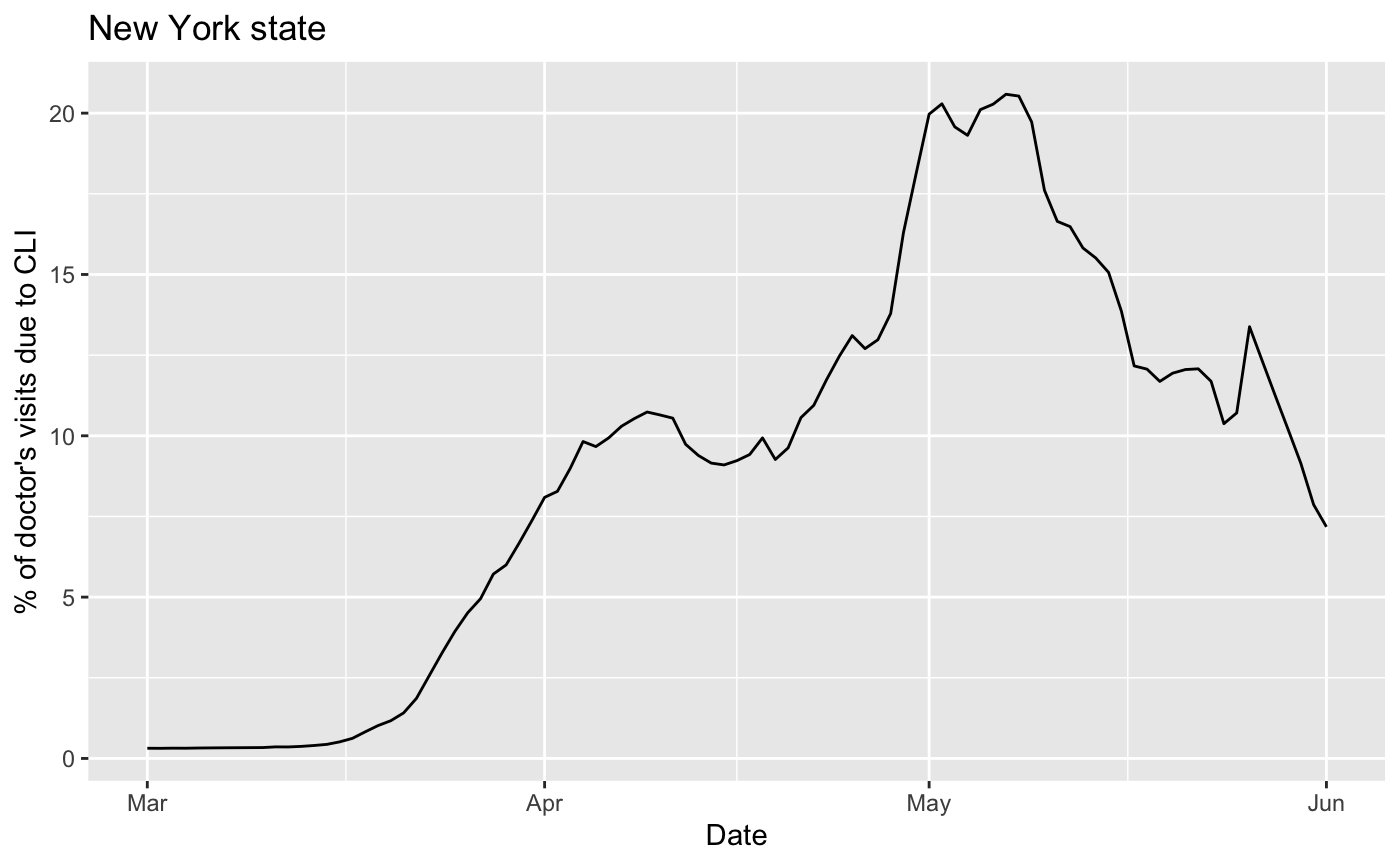
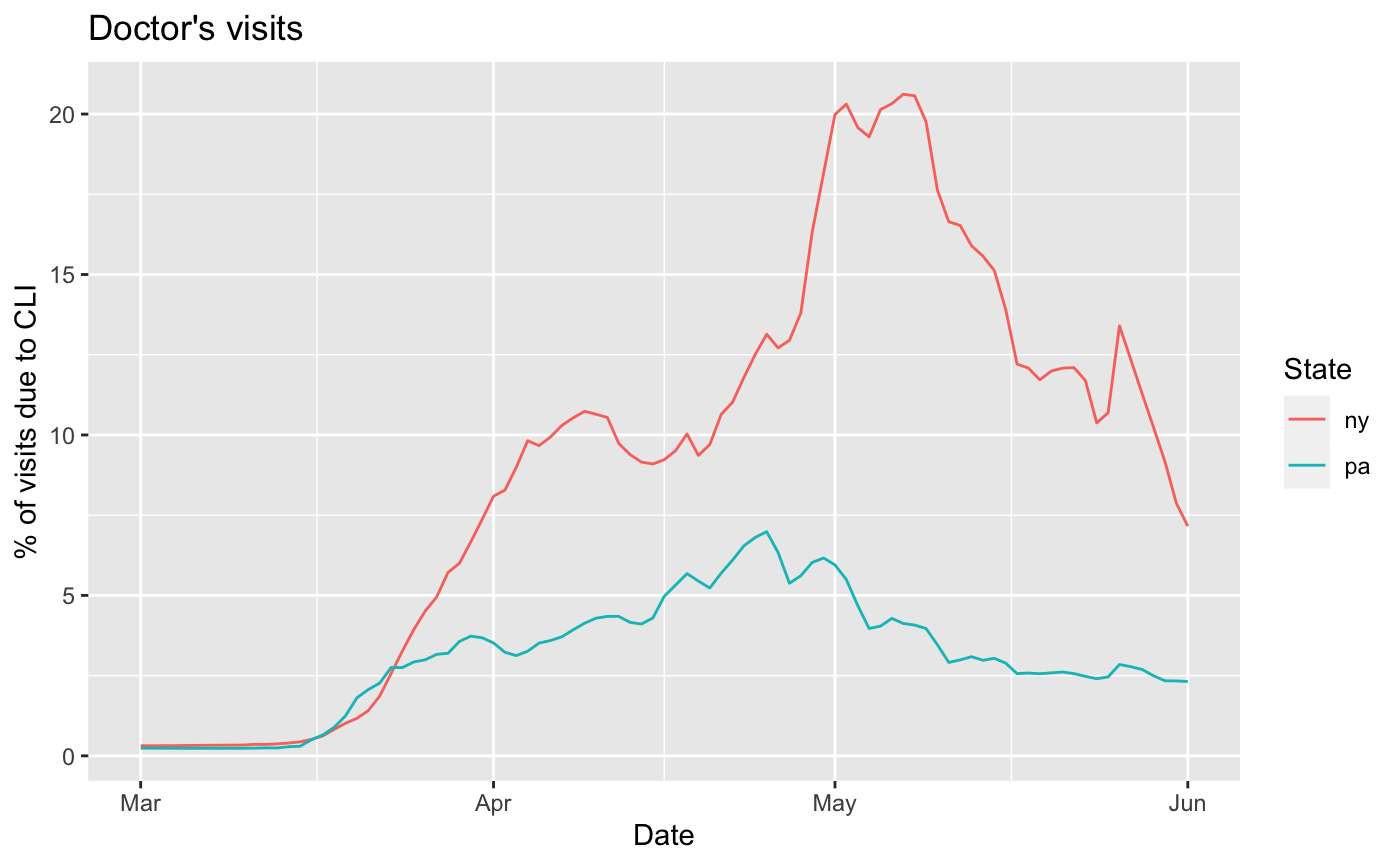
Deploying to gh-pages from  @ 7b18dddfdbf81b5c7cbd9f29260b195c5bdd8b29 🚀

diff --git a/covidcastR/articles/covidcastR.html b/covidcastR/articles/covidcastR.html
@@ -73,7 +73,7 @@
       <h1 data-toc-skip>Getting started with covidcastR</h1>
             
       
-      <small class="dont-index">Source: <a href="https://github.com/cmu-delphi/covidcast/blob/master/vignettes/covidcastR.Rmd"><code>vignettes/covidcastR.Rmd</code></a></small>
+      <small class="dont-index">Source: <a href="https://github.com/cmu-delphi/covidcast/blob/master/../../vignettes/covidcastR.Rmd"><code>../../vignettes/covidcastR.Rmd</code></a></small>
       <div class="hidden name"><code>covidcastR.Rmd</code></div>
 
     </div>
@@ -167,17 +167,17 @@
 <h2 class="hasAnchor">
 <a href="#graphing-the-data" class="anchor"></a>Graphing the data</h2>
 <p>Using <a href="https://ggplot2.tidyverse.org/"><code>ggplot2</code></a> or your favorite plotting package, we can also easily plot time series from specific regions.</p>
-<p>For example, this plot shows the same value – the fraction of doctor’s visits due to COVID-like symptoms – for the state of New York from March 1 through June 1, 2020.</p>
+<p>For example, this plot shows the same value – the fraction of doctor’s visits due to COVID-like symptoms – for the states of New York and Pennsylvania from March 1 through June 1, 2020.</p>
 <div class="sourceCode" id="cb12"><html><body><pre class="r"><span class="no">ny</span> <span class="kw">&lt;-</span> <span class="fu"><a href="https://rdrr.io/r/base/message.html">suppressMessages</a></span>(
     <span class="fu"><a href="../reference/covidcast_signal.html">covidcast_signal</a></span>(<span class="st">"doctor-visits"</span>, <span class="st">"smoothed_adj_cli"</span>,
                      <span class="kw">start_day</span> <span class="kw">=</span> <span class="st">"20200301"</span>, <span class="kw">end_day</span> <span class="kw">=</span> <span class="st">"20200601"</span>,
-                     <span class="kw">geo_type</span> <span class="kw">=</span> <span class="st">"state"</span>, <span class="kw">geo_value</span> <span class="kw">=</span> <span class="st">"ny"</span>)
+                     <span class="kw">geo_type</span> <span class="kw">=</span> <span class="st">"state"</span>, <span class="kw">geo_values</span> <span class="kw">=</span> <span class="fu"><a href="https://rdrr.io/r/base/c.html">c</a></span>(<span class="st">"pa"</span>, <span class="st">"ny"</span>))
 )
 
-<span class="fu"><a href="https://ggplot2.tidyverse.org/reference/ggplot.html">ggplot</a></span>(<span class="no">ny</span>, <span class="fu"><a href="https://ggplot2.tidyverse.org/reference/aes.html">aes</a></span>(<span class="kw">x</span> <span class="kw">=</span> <span class="no">time_value</span>, <span class="kw">y</span> <span class="kw">=</span> <span class="no">value</span>)) +
+<span class="fu"><a href="https://ggplot2.tidyverse.org/reference/ggplot.html">ggplot</a></span>(<span class="no">ny</span>, <span class="fu"><a href="https://ggplot2.tidyverse.org/reference/aes.html">aes</a></span>(<span class="kw">x</span> <span class="kw">=</span> <span class="no">time_value</span>, <span class="kw">y</span> <span class="kw">=</span> <span class="no">value</span>, <span class="kw">color</span> <span class="kw">=</span> <span class="no">geo_value</span>)) +
     <span class="fu"><a href="https://ggplot2.tidyverse.org/reference/geom_path.html">geom_line</a></span>() +
-    <span class="fu"><a href="https://ggplot2.tidyverse.org/reference/labs.html">labs</a></span>(<span class="kw">x</span> <span class="kw">=</span> <span class="st">"Date"</span>, <span class="kw">y</span> <span class="kw">=</span> <span class="st">"% of doctor's visits due to CLI"</span>,
-         <span class="kw">title</span> <span class="kw">=</span> <span class="st">"New York state"</span>)</pre></body></html></div>
+    <span class="fu"><a href="https://ggplot2.tidyverse.org/reference/labs.html">labs</a></span>(<span class="kw">x</span> <span class="kw">=</span> <span class="st">"Date"</span>, <span class="kw">y</span> <span class="kw">=</span> <span class="st">"% of visits due to CLI"</span>,
+         <span class="kw">title</span> <span class="kw">=</span> <span class="st">"Doctor's visits"</span>, <span class="kw">color</span> <span class="kw">=</span> <span class="st">"State"</span>)</pre></body></html></div>
 <p><img src="covidcastR_files/figure-html/ny_time_series-1.png" width="700"></p>
 <p>This graph makes the peaks of the pandemic apparent; by loading other data sources from the API, such as cases and deaths, we could begin to conduct analyses comparing the time series against each other.</p>
 </div>

diff --git a/covidcastR/reference/covidcast_signal.html b/covidcastR/reference/covidcast_signal.html
@@ -138,7 +138,7 @@ argument. View <code><a href='../articles/covidcastR.html'>vignette("covidcastR"
   <span class='kw'>start_day</span> <span class='kw'>=</span> <span class='kw'>NULL</span>,
   <span class='kw'>end_day</span> <span class='kw'>=</span> <span class='kw'>NULL</span>,
   <span class='kw'>geo_type</span> <span class='kw'>=</span> <span class='fu'><a href='https://rdrr.io/r/base/c.html'>c</a></span>(<span class='st'>"county"</span>, <span class='st'>"hrr"</span>, <span class='st'>"msa"</span>, <span class='st'>"dma"</span>, <span class='st'>"state"</span>),
-  <span class='kw'>geo_value</span> <span class='kw'>=</span> <span class='st'>"*"</span>
+  <span class='kw'>geo_values</span> <span class='kw'>=</span> <span class='st'>"*"</span>
 )</pre>
 
     <h2 class="hasAnchor" id="arguments"><a class="anchor" href="#arguments"></a>Arguments</h2>
@@ -173,9 +173,10 @@ day data is available for this signal.</p></td>
 signal documentation. Defaults to <code>"county"</code>.</p></td>
     </tr>
     <tr>
-      <th>geo_value</th>
-      <td><p>Which geography to return. The default, <code><a href='https://rdrr.io/r/base/Arithmetic.html'>"*"</a></code>, fetches all
-geographies. To fetch a specific geography, specify its ID as a string.</p></td>
+      <th>geo_values</th>
+      <td><p>Which geographies to return. The default, <code><a href='https://rdrr.io/r/base/Arithmetic.html'>"*"</a></code>, fetches
+all geographies. To fetch specific geographies, specify their IDs as a
+vector or list of strings.</p></td>
     </tr>
     </table>
 
@@ -211,13 +212,13 @@ messages for each day of data it downloads. To suppress these, use
 <span class='co'>## fetch all states on 2020-05-10, 2020-05-11, 2020-05-12</span>
 <span class='fu'>covidcast_signal</span>(<span class='st'>"fb-survey"</span>, <span class='st'>"raw_cli"</span>, <span class='kw'>start_day</span> <span class='kw'>=</span> <span class='st'>"20200510"</span>,
                  <span class='kw'>end_day</span> <span class='kw'>=</span> <span class='st'>"20200512"</span>, <span class='kw'>geo_type</span> <span class='kw'>=</span> <span class='st'>"state"</span>)
-<span class='co'>## fetch all available data for just Pennsylvania</span>
+<span class='co'>## fetch all available data for just Pennsylvania and New Jersey</span>
 <span class='fu'>covidcast_signal</span>(<span class='st'>"fb-survey"</span>, <span class='st'>"raw_cli"</span>, <span class='kw'>geo_type</span> <span class='kw'>=</span> <span class='st'>"state"</span>,
-                 <span class='kw'>geo_value</span> <span class='kw'>=</span> <span class='st'>"pa"</span>)
+                 <span class='kw'>geo_values</span> <span class='kw'>=</span> <span class='fu'><a href='https://rdrr.io/r/base/c.html'>c</a></span>(<span class='st'>"pa"</span>, <span class='st'>"nj"</span>))
 <span class='co'>## fetch all available data in Pittsburgh metropolitan area (identified by</span>
 <span class='co'>## CBSA ID)</span>
 <span class='fu'>covidcast_signal</span>(<span class='st'>"fb-survey"</span>, <span class='st'>"raw_cli"</span>, <span class='kw'>geo_type</span> <span class='kw'>=</span> <span class='st'>"msa"</span>,
-                 <span class='kw'>geo_value</span> <span class='kw'>=</span> <span class='st'>"38300"</span>)
+                 <span class='kw'>geo_values</span> <span class='kw'>=</span> <span class='st'>"38300"</span>)
 }</div></pre>
   </div>
   <div class="col-md-3 hidden-xs hidden-sm" id="pkgdown-sidebar">
